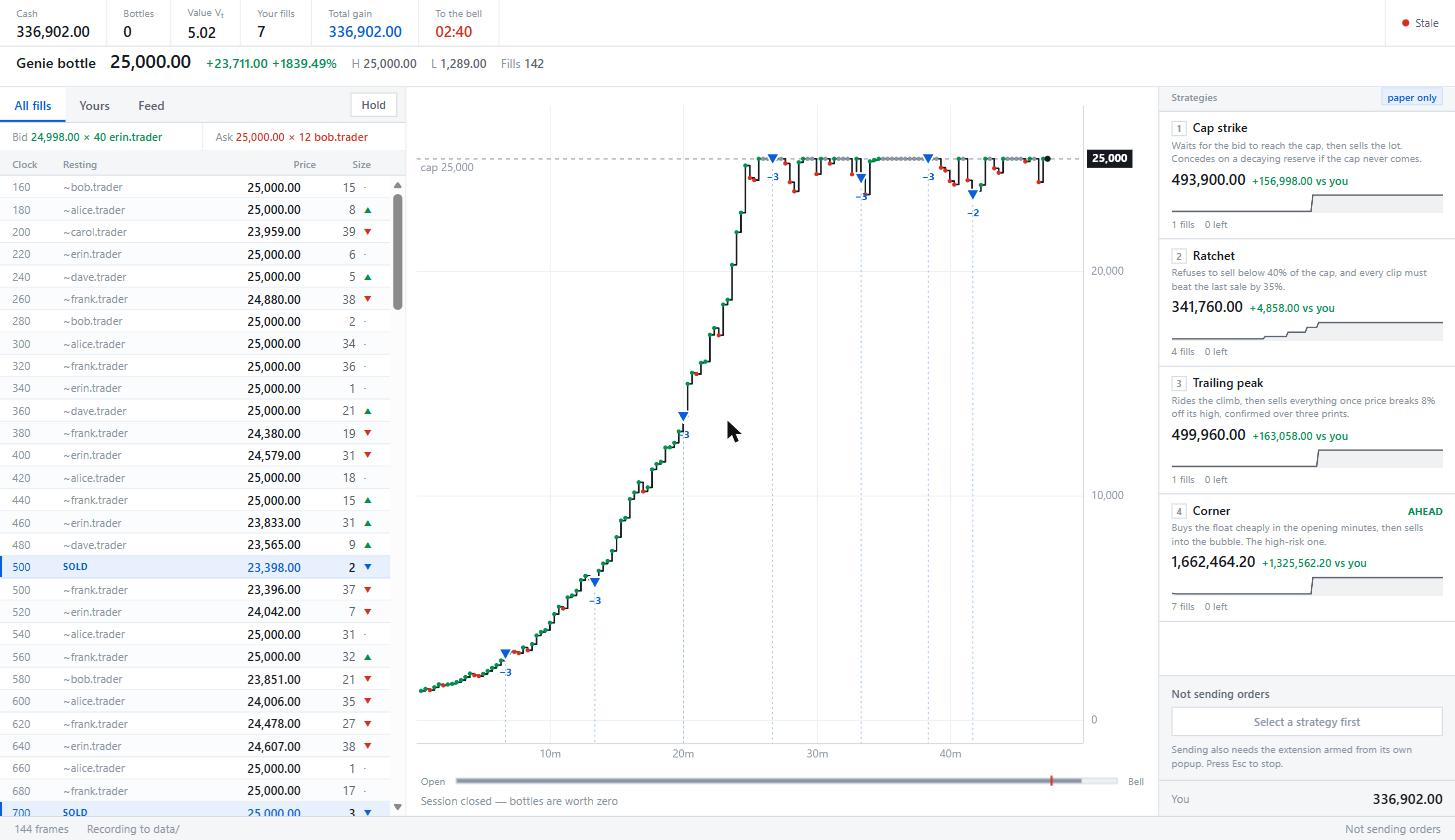
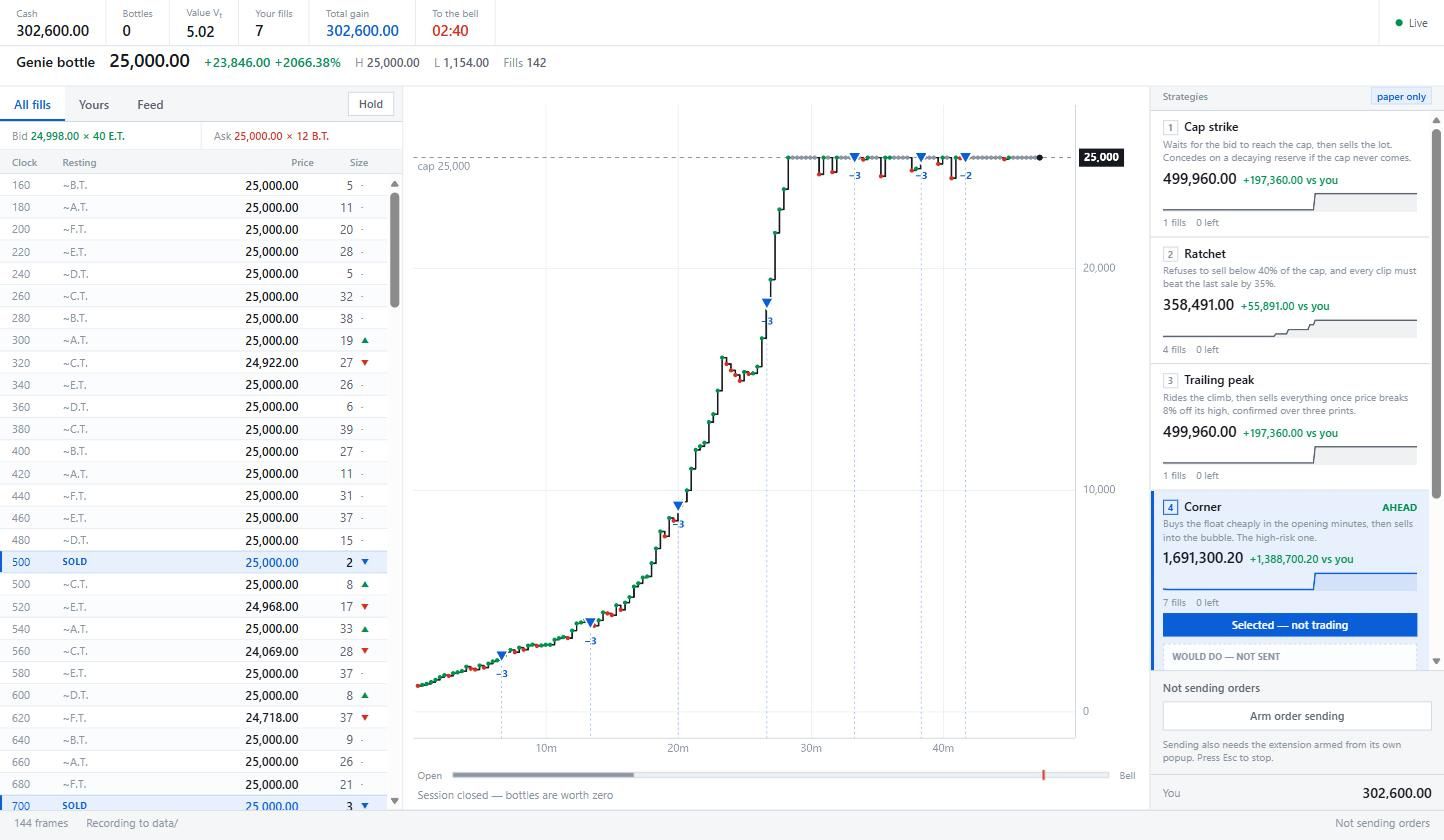
Show trader identities as initials rather than in full
The feed identifies whoever is on top of the book, and knowing which classmate
is quoting is useful, but their full names are not ours to put on a screen that
gets screenshotted and shared. The viewer reduces them to initials; the local
recording, which is git-ignored, keeps the original.

Claude-Session: https://claude.ai/code/session_018bGAHPPDeXKQpVojti3NKS

diff --git a/ui/app.js b/ui/app.js
@@ -62,6 +62,19 @@ function setFigure(node, value, dp = 2) {
   node.textContent = fmt(value, dp);
 }
 
+// Trader identities are shown as initials, never in full.
+//
+// The feed names whoever is on top of the book, and knowing which classmate is
+// quoting is genuinely useful. Their full names are not ours to put on a screen
+// that gets screenshotted and shared, so the display reduces them and the raw
+// log on disk keeps the original.
+function initials(name) {
+  if (!name) return null;
+  const parts = String(name).split(/[.\s_@-]+/).filter(Boolean);
+  if (parts.length === 0) return null;
+  return `${parts.slice(0, 3).map((part) => part[0].toUpperCase()).join('.')}.`;
+}
+
 // Game clock to minutes:seconds. One clock unit is one second of real time.
 function asTime(units) {
   if (units === null || units === undefined) return '—';
@@ -90,7 +103,7 @@ function rowMarket(trade) {
   setFigure(px, trade.price);
   // The server never names the parties to a trade. This is whoever was resting
   // at the price, so it is shown dimmed and prefixed to read as an inference.
-  const who = cell('who', trade.restingTrader ? `~${trade.restingTrader}` : '');
+  const who = cell('who', trade.restingTrader ? `~${initials(trade.restingTrader)}` : '');
   if (trade.restingSide) who.classList.add(`who-${trade.restingSide}`);
   li.append(
     cell('clk', trade.clock ?? '—'),
@@ -391,7 +404,7 @@ function paintExecution() {
 
 
 function paintTopOfBook() {
-  const show = (q) => (q ? `${fmt(q.price)} × ${q.qty ?? '?'}  ${q.trader ?? 'unnamed'}` : '—');
+  const show = (q) => (q ? `${fmt(q.price)} × ${q.qty ?? '?'}  ${initials(q.trader) ?? 'unnamed'}` : '—');
   el.bidWho.textContent = show(state.best.bid);
   el.askWho.textContent = show(state.best.ask);
 }

diff --git a/README.md b/README.md
@@ -47,9 +47,13 @@ that kept running to the 25,000 cap. Rank is from memory, worth re-checking.
   comes off the server's `lastTick` field. Nothing else in the tape is coloured.
 - **Yours.** Blue, and mixed into the same stream, so you never switch tabs to see what
   you just did.
-- **Resting.** The server never names the parties to a trade. It does name whoever sits
-  on top of the book, so this column shows who was resting at the price that printed.
-  The `~` marks it as an inference.
+- **Resting.** The server never names the parties to a trade, but it does identify
+  whoever sits on top of the book, so this column shows who was resting at the price
+  that printed. The `~` marks it as an inference.
+
+  **Shown as initials only.** Classmates' full names are not ours to put on a screen
+  that gets screenshotted, so the viewer reduces them and the local log keeps the
+  original. Nothing identifying anyone has ever been committed to this repository.
 - **Session bar.** How much of the 50 minutes has gone, with a red mark for where you
   should already be flat.
 
@@ -251,7 +255,7 @@ that assumes a single object drops most of the feed.
 | header | carries |
 |---|---|
 | `lasttrade` | price, size, and `lastTick`, the tick direction |
-| `bestbid` / `bestask` | price, size, and `displayName`, the only place names appear |
+| `bestbid` / `bestask` | price, size, and `displayName`, the only place traders are identified |
 | `cash` / `endow` | your money and your position, pushed on every change |
 | `info` | your private value `Vt` |
 | `time` / `startperiod` | the game clock, and the session length |
@@ -274,7 +278,7 @@ extension/    captures the market feed, and (only when armed) sends orders
   execute.js    the one file that can place an order
 ui/           the viewer window
 scripts/      launcher, a synthetic feed, and the backtester
-data/         recorded sessions (git-ignored, these hold real names)
+data/         recorded sessions (git-ignored: these identify real classmates)
 ```
 
 The hub writes every message to `data/raw-<timestamp>.jsonl` the moment it arrives,
